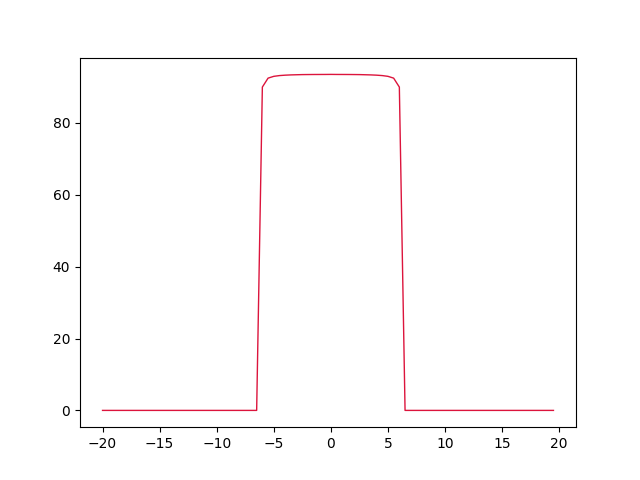
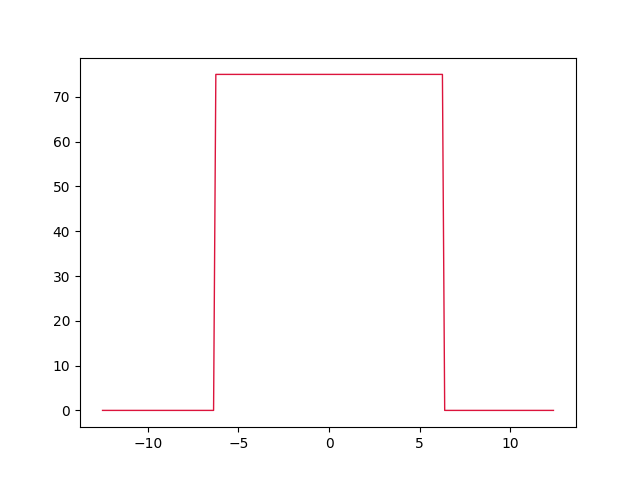
fix plots in task 1

diff --git a/course_works/radio_circuits_and_signals/task_1.py b/course_works/radio_circuits_and_signals/task_1.py
@@ -2,6 +2,7 @@ from utils.enum import *
 
 from utils.plot import plot
 from utils.furie import Furie
+from utils.signal import Signal
 from utils.img import add_img
 
 from math import sqrt, pow
@@ -99,6 +100,17 @@ class Task:
         fk_ = []
         Ck_ = []
 
+
+        def st(T):
+            if abs(T) <= t/2:
+                return A
+            return 0
+        t_tick = t/100
+        t_line = np.arange(-t, t, t_tick)
+        s = Signal(st, t_line, [0])
+        plot(s.base_time_line, s.base_signal_line, name="pr_x_y", linewidth = 1, color = 'crimson')
+
+
         @round
         def ak(k):
             if k == 0:
@@ -167,7 +179,7 @@ class Task:
         x_k_11 = range(0, k_max+1)
         x_k_5 = range((-k_max//2), (k_max//2)+1)
 
-        plot(x, y, name="pr_x_y", linewidth = 1, color = 'crimson')
+        # plot(x, y, name="pr_x_y", linewidth = 1, color = 'crimson')
         plot(x_k_11, Ak_, 'ro', name="pr_Ak", linewidth = 1, color = 'crimson')
         plot(x_k_5, fk_, 'ro', name="pr_fk", linewidth = 1, color = 'crimson')
 
@@ -418,6 +430,15 @@ class Task:
         fk_ = []
         Ck_ = []
 
+        def st(T):
+            if abs(T) <= t/2:
+                return A * (1 - abs(T)/(t/2))
+            return 0
+        t_tick = t/100
+        t_line = np.arange(-t, t, t_tick)
+        s = Signal(st, t_line, [0])
+        plot(s.base_time_line, s.base_signal_line, name="tr_x_y", linewidth = 1, color = 'crimson')
+
         # VIEW
 
         furie_sin_cos = ''
@@ -478,7 +499,7 @@ class Task:
         x_k_11 = range(0, k_max+1)
         x_k_5 = range((-k_max//2), (k_max//2)+1)
 
-        plot(x, y, name="tr_x_y", linewidth = 1, color = 'crimson')
+        # plot(x, y, name="tr_x_y", linewidth = 1, color = 'crimson')
         plot(x_k_11, Ak_, 'ro', name="tr_Ak", linewidth = 1, color = 'crimson')
         plot(x_k_5, fk_, 'ro', name="tr_fk", linewidth = 1, color = 'crimson')
 
@@ -573,6 +594,15 @@ class Task:
         fk_ = []
         Ck_ = []
 
+        def st(T):
+            if abs(T) <= t/2:
+                return A
+            return 0
+        t_tick = t/100
+        t_line = np.arange(-t, t, t_tick)
+        s = Signal(st, t_line, [0])
+        plot(s.base_time_line, s.base_signal_line, name="me_x_y", linewidth = 1, color = 'crimson')
+
         #VIEW
 
         furie_sin_cos = f'{a0}/2'
@@ -649,7 +679,7 @@ class Task:
         x_k_11 = range(0, k_max+1)
         x_k_5 = range((-k_max//2), (k_max//2)+1)
 
-        plot(x, y, name="me_x_y", linewidth = 1, color = 'crimson')
+        # plot(x, y, name="me_x_y", linewidth = 1, color = 'crimson')
         plot(x_k_11, Ak_, 'ro', name="me_Ak", linewidth = 1, color = 'crimson')
         plot(x_k_5, fk_, 'ro', name="me_fk", linewidth = 1, color = 'crimson')
 
